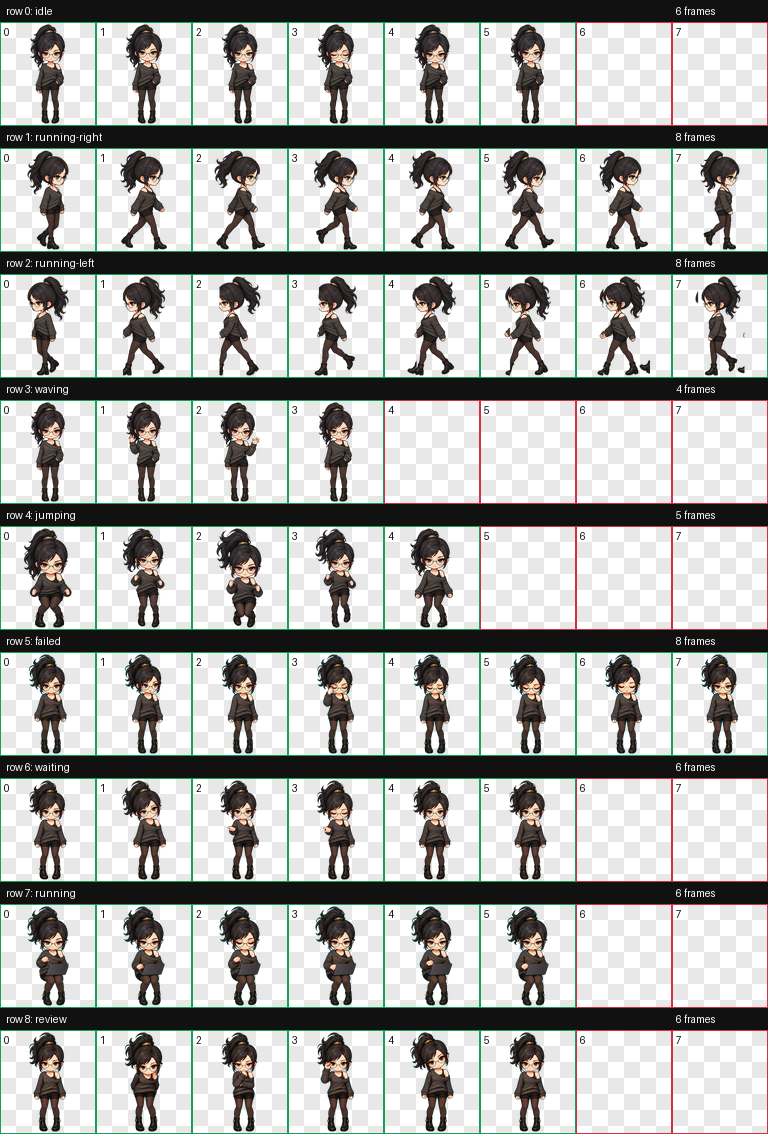
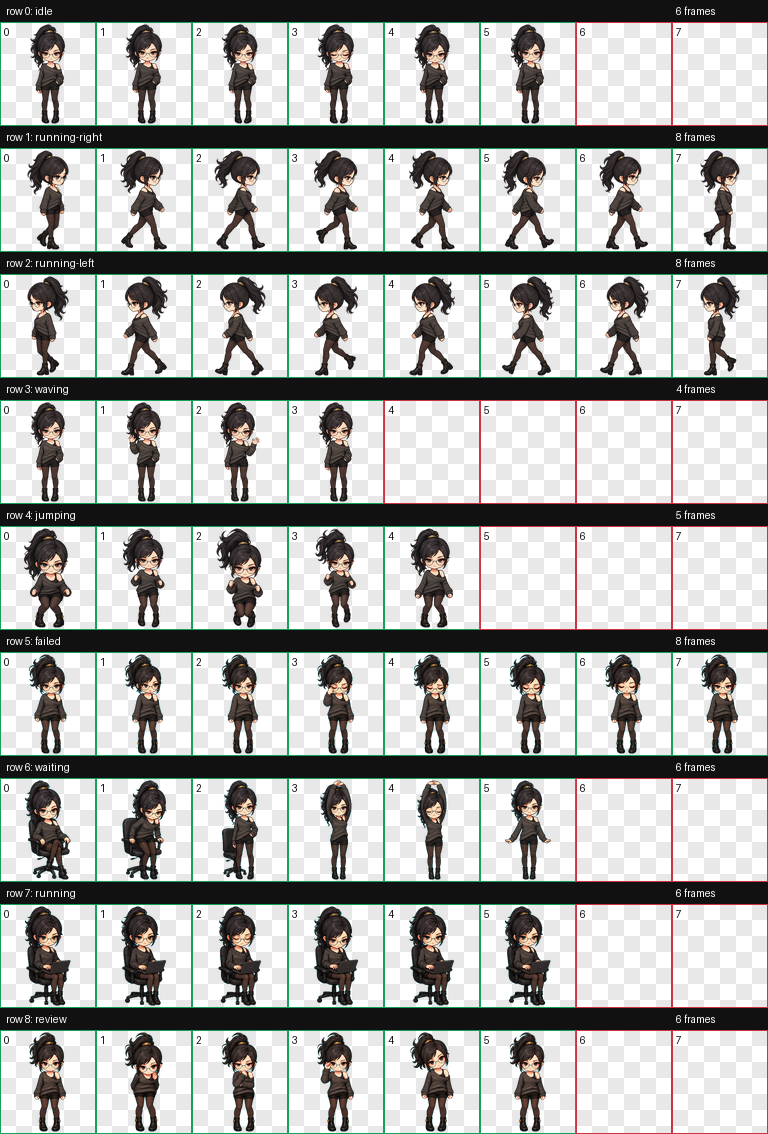
Improve Daily idle and emotion animations

diff --git a/src/renderer/pet.ts b/src/renderer/pet.ts
@@ -1,4 +1,5 @@
 import "./pet.css";
+import { chooseLocalBehavior } from "../core/behavior";
 import { frameAtTime } from "../core/timeline";
 import type { PetAnimation, PetRuntime } from "../shared/contracts";
 
@@ -17,7 +18,8 @@ let dragging = false;
 let dragOffset = { x: 0, y: 0 };
 let pointerStart = { x: 0, y: 0 };
 let lastFrame = performance.now();
-let nextBehaviorAt = performance.now() + 4_000;
+let nextBehaviorAt = performance.now() + 12_000;
+let localBehaviorEndsAt = 0;
 const extensionImages = new Map<string, HTMLImageElement>();
 
 function resize(): void {
@@ -31,9 +33,17 @@ function resize(): void {
 
 function findAnimation(id: string): PetAnimation { return runtime.animations.find((item) => item.id === id) ?? runtime.animations[0]; }
 
-function play(id: string): void {
+function animationDuration(value: PetAnimation): number {
+  return value.frames.reduce((sum, frame) => sum + frame.durationMs, 0);
+}
+
+function play(id: string, protectFromLocal = true): void {
   animation = findAnimation(id);
   animationStarted = performance.now();
+  if (protectFromLocal) {
+    localBehaviorEndsAt = 0;
+    nextBehaviorAt = Math.max(nextBehaviorAt, animationStarted + animationDuration(animation) + 8_000);
+  }
 }
 
 function loadImage(src: string): HTMLImageElement {
@@ -44,11 +54,10 @@ function loadImage(src: string): HTMLImageElement {
 
 function selectLocalBehavior(now: number): void {
   if (dragging || runtime.settings.paused || now < nextBehaviorAt) return;
-  const roll = Math.random();
-  if (roll > 0.72) play(x > innerWidth / 2 ? "run-left" : "run-right");
-  else if (roll > 0.58) play("wave");
-  else play("idle");
-  nextBehaviorAt = now + 3_000 + Math.random() * 4_000;
+  const behavior = chooseLocalBehavior(Math.random(), x > innerWidth / 2);
+  play(behavior.id, false);
+  localBehaviorEndsAt = now + behavior.minDurationMs + Math.random() * (behavior.maxDurationMs - behavior.minDurationMs);
+  nextBehaviorAt = localBehaviorEndsAt + 10_000 + Math.random() * 12_000;
 }
 
 function draw(now: number): void {
@@ -56,6 +65,7 @@ function draw(now: number): void {
   resizeIfNeeded();
   context.clearRect(0, 0, innerWidth, innerHeight);
   if (!runtime || !animation || !atlas.complete) { requestAnimationFrame(draw); return; }
+  if (localBehaviorEndsAt > 0 && now >= localBehaviorEndsAt) { localBehaviorEndsAt = 0; play("idle", false); }
   selectLocalBehavior(now);
   const index = frameAtTime(animation.frames, now - animationStarted, animation.loop);
   const frame = animation.frames[index];
@@ -73,8 +83,7 @@ function draw(now: number): void {
     if (image.complete) context.drawImage(image, x, y, width, height);
   } else context.drawImage(atlas, frame.x, frame.y, frame.width, frame.height, x, y, width, height);
   if (!animation.loop) {
-    const duration = animation.frames.reduce((sum, item) => sum + item.durationMs, 0);
-    if (now - animationStarted >= duration) play("idle");
+    if (now - animationStarted >= animationDuration(animation)) play("idle", false);
   }
   requestAnimationFrame(draw);
 }
@@ -101,7 +110,7 @@ canvas.addEventListener("pointerleave", () => { if (!dragging) window.souldesk.s
 canvas.addEventListener("pointerdown", (event) => {
   if (!isOpaque(event.clientX, event.clientY)) return;
   dragging = true; pointerStart = { x: event.clientX, y: event.clientY }; dragOffset = { x: event.clientX - x, y: event.clientY - y };
-  canvas.setPointerCapture(event.pointerId); play("waiting");
+  canvas.setPointerCapture(event.pointerId); play("review");
 });
 canvas.addEventListener("pointerup", (event) => {
   if (!dragging) return;
@@ -117,6 +126,7 @@ async function applyRuntime(next: PetRuntime): Promise<void> {
   const offscreenContext = offscreen.getContext("2d", { willReadFrequently: true })!; offscreenContext.drawImage(atlas, 0, 0);
   atlasAlpha = offscreenContext.getImageData(0, 0, offscreen.width, offscreen.height).data; atlasWidth = offscreen.width;
   animation = findAnimation("idle"); animationStarted = performance.now();
+  nextBehaviorAt = performance.now() + 12_000; localBehaviorEndsAt = 0;
   document.documentElement.dataset.appReady = "true";
 }
 

diff --git a/src/core/codex-atlas.ts b/src/core/codex-atlas.ts
@@ -2,15 +2,15 @@ import type { ActionIntent, AppSettings, PetAnimation, PetRuntime } from "../sha
 
 const FRAME_COUNTS = [6, 8, 8, 4, 5, 8, 6, 6, 6] as const;
 const ACTIONS: Array<{ id: string; loop: boolean; intents: ActionIntent[]; durationMs: number }> = [
-  { id: "idle", loop: true, intents: ["idle", "tired"], durationMs: 180 },
-  { id: "run-right", loop: true, intents: ["idle"], durationMs: 110 },
-  { id: "run-left", loop: true, intents: ["idle"], durationMs: 110 },
-  { id: "wave", loop: false, intents: ["greet", "happy"], durationMs: 150 },
-  { id: "jump", loop: false, intents: ["celebrate", "happy", "encourage"], durationMs: 130 },
-  { id: "failed", loop: false, intents: ["confused", "tired"], durationMs: 160 },
-  { id: "waiting", loop: true, intents: ["wait", "think"], durationMs: 170 },
-  { id: "working", loop: true, intents: ["work", "encourage"], durationMs: 120 },
-  { id: "review", loop: true, intents: ["think", "work"], durationMs: 160 }
+  { id: "idle", loop: true, intents: ["idle"], durationMs: 220 },
+  { id: "run-right", loop: true, intents: [], durationMs: 140 },
+  { id: "run-left", loop: true, intents: [], durationMs: 140 },
+  { id: "wave", loop: false, intents: ["greet", "happy"], durationMs: 320 },
+  { id: "jump", loop: false, intents: ["celebrate", "happy", "encourage"], durationMs: 190 },
+  { id: "failed", loop: false, intents: ["confused"], durationMs: 220 },
+  { id: "stretch", loop: false, intents: ["tired"], durationMs: 250 },
+  { id: "working", loop: true, intents: ["work", "encourage"], durationMs: 180 },
+  { id: "review", loop: true, intents: ["think", "wait", "work"], durationMs: 220 }
 ];
 
 export const DEFAULT_SETTINGS: AppSettings = {

diff --git a/src/core/behavior.test.ts b/src/core/behavior.test.ts
@@ -1,5 +1,5 @@
 import { describe, expect, it } from "vitest";
-import { chooseAnimation, resolveDecision } from "./behavior";
+import { chooseAnimation, chooseLocalBehavior, resolveDecision } from "./behavior";
 
 describe("behavior mapping", () => {
   it("maps a validated semantic intent to an available character action", () => {
@@ -12,5 +12,14 @@ describe("behavior mapping", () => {
 
   it("sanitizes malformed model decisions", () => {
     expect(resolveDecision({ actionIntent: "destroy", mood: 42 })).toEqual({ actionIntent: "idle", mood: "calm", memoryCandidates: [] });
+  });
+
+  it("keeps walking rare and favors quiet desk behaviors", () => {
+    expect(chooseLocalBehavior(0.01, false).id).toBe("run-right");
+    expect(chooseLocalBehavior(0.01, true).id).toBe("run-left");
+    expect(chooseLocalBehavior(0.08, false).id).toBe("working");
+    expect(chooseLocalBehavior(0.55, false).id).toBe("stretch");
+    expect(chooseLocalBehavior(0.75, false).id).toBe("review");
+    expect(chooseLocalBehavior(0.95, false).id).toBe("idle");
   });
 });

diff --git a/src/core/behavior.ts b/src/core/behavior.ts
@@ -8,6 +8,15 @@ const decisionSchema = z.object({
 });
 
 interface ActionCandidate { id: string; intents: readonly ActionIntent[]; weight?: number }
+export interface LocalBehavior { id: "idle" | "run-left" | "run-right" | "stretch" | "working" | "review"; minDurationMs: number; maxDurationMs: number }
+
+export function chooseLocalBehavior(roll: number, onRightHalf: boolean): LocalBehavior {
+  if (roll < 0.08) return { id: onRightHalf ? "run-left" : "run-right", minDurationMs: 2_200, maxDurationMs: 3_500 };
+  if (roll < 0.50) return { id: "working", minDurationMs: 8_000, maxDurationMs: 14_000 };
+  if (roll < 0.70) return { id: "stretch", minDurationMs: 1_500, maxDurationMs: 1_500 };
+  if (roll < 0.84) return { id: "review", minDurationMs: 4_000, maxDurationMs: 8_000 };
+  return { id: "idle", minDurationMs: 5_000, maxDurationMs: 9_000 };
+}
 
 export function chooseAnimation(intent: ActionIntent, animations: ActionCandidate[], random = Math.random): string {
   const matches = animations.filter((animation) => animation.intents.includes(intent));

diff --git a/src/core/codex-atlas.test.ts b/src/core/codex-atlas.test.ts
@@ -6,10 +6,12 @@ describe("createCodexRuntime", () => {
     const runtime = createCodexRuntime({ id: "daily", name: "Daily", description: "Programmer", sheetUrl: "pet://daily/spritesheet.webp" });
     expect(runtime.animations).toHaveLength(9);
     expect(runtime.animations.map((animation) => animation.id)).toEqual([
-      "idle", "run-right", "run-left", "wave", "jump", "failed", "waiting", "working", "review"
+      "idle", "run-right", "run-left", "wave", "jump", "failed", "stretch", "working", "review"
     ]);
     expect(runtime.animations[0].frames).toHaveLength(6);
     expect(runtime.animations[1].frames).toHaveLength(8);
     expect(runtime.animations[0].frames[0]).toMatchObject({ x: 0, y: 0, width: 192, height: 208 });
+    expect(runtime.animations.find((animation) => animation.id === "wave")?.frames[0].durationMs).toBe(320);
+    expect(runtime.animations.find((animation) => animation.id === "run-left")?.intents).toEqual([]);
   });
 });

diff --git a/scripts/validate-motion.ts b/scripts/validate-motion.ts
@@ -7,6 +7,6 @@ const [archivePath] = process.argv.slice(2).filter((value) => value !== "--");
 if (!archivePath) throw new Error("用法: pnpm motion:validate -- <file.soulmotion>");
 const directory = await mkdtemp(join(tmpdir(), "souldesk-motion-"));
 try {
-  const result = await new MotionService(directory).install(resolve(archivePath), new Set(["idle", "run-right", "run-left", "wave", "jump", "failed", "waiting", "working", "review"]));
+  const result = await new MotionService(directory).install(resolve(archivePath), new Set(["idle", "run-right", "run-left", "wave", "jump", "failed", "stretch", "working", "review"]));
   console.log(`验证通过：${result.manifest.name} v${result.manifest.version}，${result.manifest.animations.length} 个动作`);
 } finally { await rm(directory, { recursive: true, force: true }); }

diff --git a/electron/main.ts b/electron/main.ts
@@ -199,7 +199,7 @@ async function runChat(requestId: string, content: string): Promise<void> {
     const userMessage = { id: crypto.randomUUID(), role: "user" as const, content, createdAt: Date.now() };
     database.addMessage(userMessage);
     await broadcast();
-    sendAll("pet:action", "waiting");
+    sendAll("pet:action", "review");
     const persona = database.getPersona();
     const system = [
       `你是桌面陪伴角色 ${persona.name}。`, persona.background, persona.speakingStyle,

diff --git a/agent/souldesk_agent/model.py b/agent/souldesk_agent/model.py
@@ -97,7 +97,13 @@ class CompatibleModel:
 
     def plan(self, config: Dict[str, Any], transcript: str) -> Dict[str, Any]:
         content = self._json_completion(config, [
-            {"role": "system", "content": "Return JSON only with actionIntent, mood, memoryCandidates. actionIntent must be one of idle,greet,happy,encourage,think,work,wait,celebrate,tired,confused."},
+            {"role": "system", "content": (
+                "Read the emotional tone of the conversation and choose a visible companion reaction. "
+                "Return JSON only with actionIntent, mood, memoryCandidates. "
+                "Use greet for a greeting, happy for warm positive emotion, celebrate for success, "
+                "encourage for support, think for reflection, work for focused coding, wait when user input is needed, "
+                "tired for a stretch or break, confused for frustration or uncertainty, and idle only when no reaction fits."
+            )},
             {"role": "user", "content": transcript[-4000:]},
         ])
         fallback = {"actionIntent": "idle", "mood": "calm", "memoryCandidates": []}
